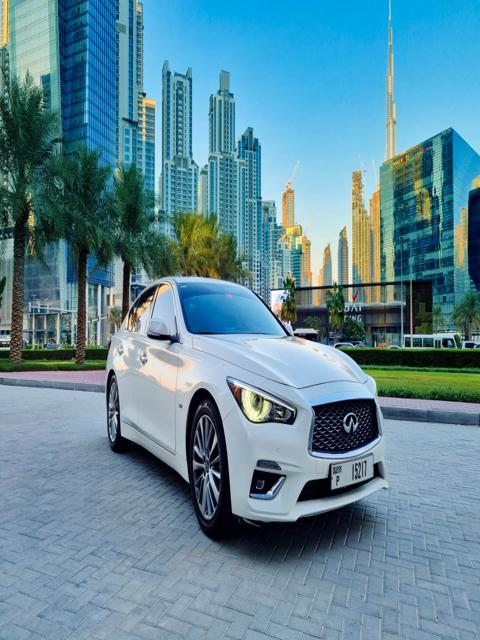
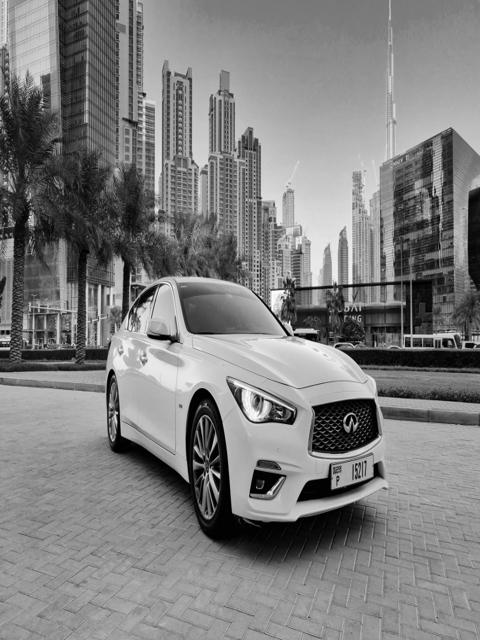
Grayscale

diff --git a/ImgProcessing.py b/ImgProcessing.py
@@ -10,14 +10,15 @@ class ImgProcessor:
         self.size = size
 
     def resize(self, img, filename):
-        self.img = Image.open(img)
+        self.img = Image.open(img).convert('L')
         img_resized = self.img.resize(self.size)
         os.chdir(modified_directory)
         im_resize = img_resized.save(filename + "_resized.jpg")
 
 
-    def resize_all(self):
+    def modify_all(self):
         for filename in os.listdir(original_directory):
             f = os.path.join(original_directory, filename)
             if os.path.isfile(f):
                 self.resize(f, filename)
+

diff --git a/main.py b/main.py
@@ -11,5 +11,5 @@ ax.set_xlabel('$x_1$')
 ax.set_ylabel('$x_2$')
 
 imgprocessor = ImgProcessing.ImgProcessor((480,640))
-imgprocessor.resize_all()
+imgprocessor.modify_all()
 
